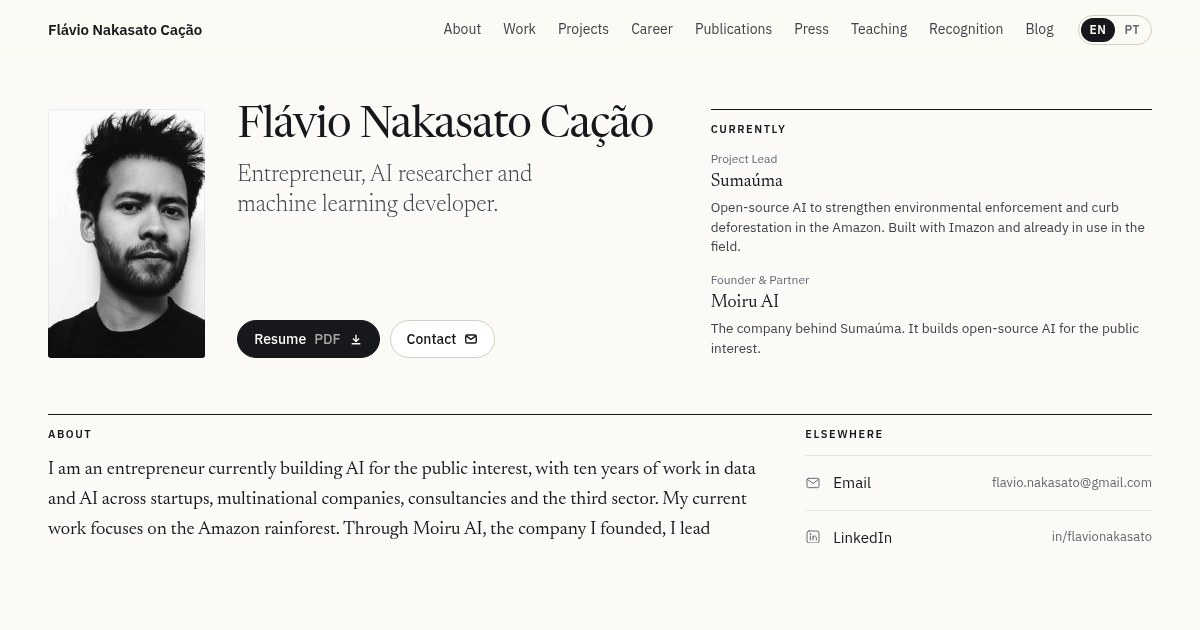
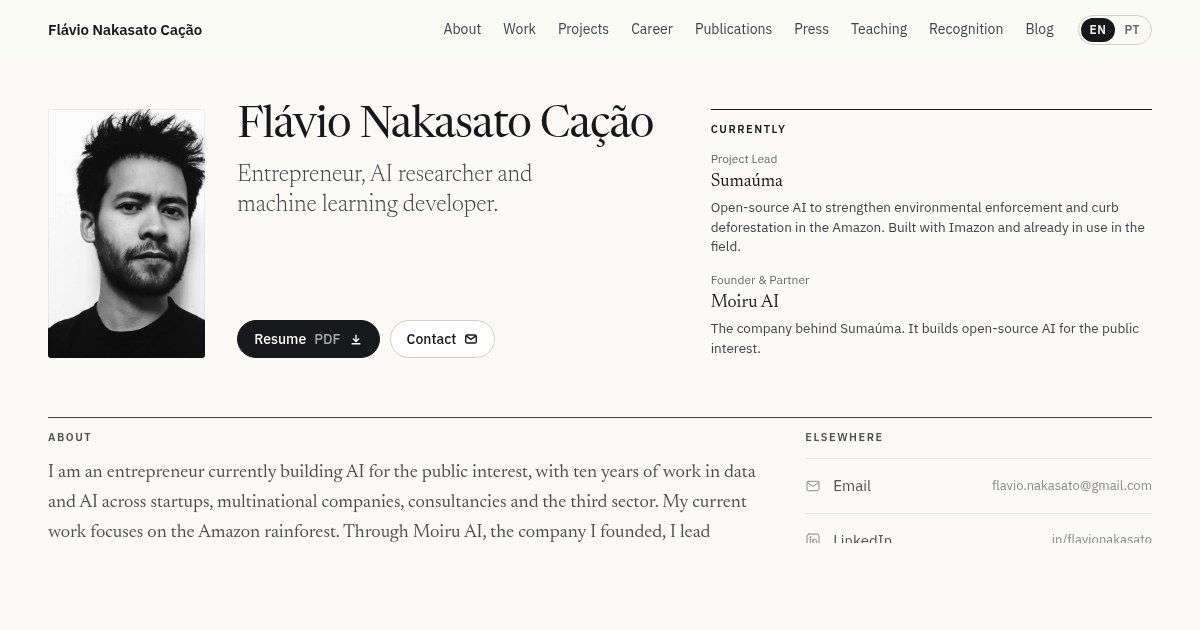
Mobile: remove a seção Currently
Claude-Session: https://claude.ai/code/session_01A1tMtJZEd8TSPHM1qtNwtA

diff --git a/index.html b/index.html
@@ -591,7 +591,7 @@ footer a:hover{color:var(--ink)}
   .links-svg path.live{stroke-dashoffset:0}
 }
 /* M3-START */
-body.m3{font-size:15px;overflow-x:hidden}body.m3 [hidden]{display:none!important}body.m3 .rv{opacity:1!important;transform:none!important;transition:none!important}body.m3 .totop,body.m3 .skip{display:none!important}body.m3 .shead .sub{display:none}body.m3 .shead{padding-top:10px;margin-bottom:14px}body.m3 .shead h2{font-size:24px}body.m3 .shead .aux{font-size:12.5px}body.m3 .met b{font-size:22px}body.m3 section.block{padding-top:34px}body.m3 .top{position:static;background:none}body.m3 .top .wrap{height:48px;gap:10px}body.m3 .brand{font-size:14.5px}body.m3 .lang{margin-left:auto}body.m3 footer{margin-top:28px}body.m3 footer .wrap{flex-direction:column;gap:6px}body.m3 .btn{padding:10px 14px;font-size:13.5px}body.m3 .row .t,body.m3 .xp .o b{font-size:17.5px}body.m3 .row{padding:10px 0}body.m3 .hero{padding-top:4px;padding-bottom:6px}body.m3 .hero-grid.g12{grid-template-columns:76px minmax(0,1fr);column-gap:14px;row-gap:10px}body.m3 .intro{display:contents}body.m3 .portrait{grid-column:1;grid-row:1/span 2;width:76px;height:76px;aspect-ratio:1;border-radius:50%;align-self:center}body.m3 h1.name{grid-column:2;grid-row:1;align-self:end;font-size:27px;margin:0}body.m3 .tagline{grid-column:2;grid-row:2;align-self:start;font-size:16.5px;margin:0;max-width:none}body.m3 .intro .actions{grid-column:1/-1;grid-row:3;display:grid;grid-template-columns:1fr 1fr;gap:8px;margin:0}body.m3 .intro .actions .btn{justify-content:center;padding:11px 8px}body.m3 .ilinks{grid-column:1/-1;grid-row:4;display:grid;grid-template-columns:repeat(5,1fr);gap:8px}body.m3 .ilinks a{display:grid;place-items:center;height:38px;border:1px solid var(--hair-2);border-radius:999px;background:var(--card);color:var(--ink-2)}body.m3 .ilinks svg{width:18px;height:18px}body.m3 .now{grid-column:1/-1;grid-row:5;display:block;margin:2px 0 0;padding-top:10px}body.m3 .now .lbl{margin-bottom:8px}body.m3 .now dl{display:grid;grid-template-columns:1fr 1fr;gap:12px}body.m3 .now dl>div{margin:0!important;grid-column:auto}body.m3 .now dd{font-size:18px}body.m3 .now dd small{display:none}body.m3 .m3about{margin-top:14px;border-top:1px solid var(--ink);padding-top:10px}body.m3 .m3about .bio{grid-column:auto}body.m3 .m3about .bio .lbl{margin-bottom:8px}body.m3 .m3about .bio p{font-size:17px;line-height:1.55;display:-webkit-box;-webkit-box-orient:vertical;-webkit-line-clamp:4;overflow:hidden;-webkit-mask-image:linear-gradient(#000 55%,transparent);mask-image:linear-gradient(#000 55%,transparent)}body.m3 .m3about.open .bio p{display:block;-webkit-line-clamp:unset;-webkit-mask-image:none;mask-image:none}body.m3 .m3more{all:unset;cursor:pointer;display:inline-block;margin-top:6px;font:500 13.5px/1 var(--sans);color:var(--ink);border-bottom:1px solid var(--ink);padding-bottom:2px}body.m3 #about{display:none}body.m3 .hello{font:600 11px/1 var(--sans);letter-spacing:.14em;text-transform:uppercase;margin:20px 0 8px;color:var(--muted)}body.m3 .tiles3{display:grid;grid-template-columns:1fr 1fr;gap:10px}body.m3 section.block.sheet{position:fixed;inset:0;z-index:55;margin:0;max-width:none;background:var(--paper);overflow-y:auto;overscroll-behavior:contain;transform:translateX(100%);visibility:hidden;padding:0 16px 56px}body.m3 body.rdy section.block.sheet{transition:transform .35s var(--ease),visibility 0s .35s}body.m3 section.block.sheet.open{transform:none;visibility:visible}body.m3 body.rdy section.block.sheet.open{transition:transform .35s var(--ease)}body.m3 .sbar{position:sticky;top:0;z-index:6;margin:0 -16px 14px;padding:10px 12px;display:flex;align-items:center;gap:12px;background:var(--paper);border-bottom:1px solid var(--hair)}body.m3 .sbar button{all:unset;cursor:pointer;width:36px;height:36px;border-radius:50%;border:1px solid var(--hair-2);display:grid;place-items:center;background:var(--card)}body.m3 .sbar svg{width:16px;height:16px;stroke:var(--ink);fill:none;stroke-width:1.8;stroke-linecap:round;stroke-linejoin:round}body.m3 .sbar b{font:400 23px/1 var(--serif);letter-spacing:-.01em}body.m3 .sheet .shead{border-top:0;padding-top:0}body.m3 .sheet .shead .hl h2{display:none}body.m3 .sheet .shead .hl{justify-content:flex-start}body.m3 .sheet .shead:not(:has(.aux)){display:none}body.m3 .tiles{display:grid;grid-template-columns:1fr 1fr;gap:10px}body.m3 .tile{all:unset;box-sizing:border-box;display:flex;flex-direction:column;background:var(--card);border:1px solid var(--hair);border-radius:8px;overflow:hidden;cursor:pointer;min-width:0}body.m3 .tile:focus-visible{outline:2px solid var(--accent);outline-offset:2px}body.m3 .tile.wide{grid-column:1/-1}body.m3 .timg{display:block;aspect-ratio:16/10;position:relative;background:var(--paper-2);overflow:hidden;flex:none}body.m3 .tile.wide .timg{aspect-ratio:16/8}body.m3 .timg img{position:absolute;inset:0;width:100%;height:100%;object-fit:cover;object-position:50% 0}body.m3 .tile.wide .timg img{object-position:50% 40%}body.m3 .timg .typo{position:absolute;inset:0;padding:6%}body.m3 .timg .typo b{font-size:17px}body.m3 .timg .typo span{font-size:9px;margin-top:6px}body.m3 .timg .typo i{display:none}body.m3 .tb{padding:10px 11px 12px;display:flex;flex-direction:column;gap:3px;min-width:0}body.m3 .tt{font:500 10px/1.2 var(--sans);letter-spacing:.1em;text-transform:uppercase;color:var(--c)}body.m3 .tb b{font:400 16.5px/1.2 var(--serif);letter-spacing:-.008em}body.m3 .tn{font:300 28px/1 var(--serif);letter-spacing:-.03em;margin-top:2px;font-variant-numeric:lining-nums}body.m3 .tn sup{font-size:.42em;vertical-align:.95em}body.m3 .tl{font-size:12px;line-height:1.35;color:var(--ink-2);display:-webkit-box;-webkit-line-clamp:2;-webkit-box-orient:vertical;overflow:hidden}body.m3 #prgrid{display:block}body.m3 #prgrid .c{flex-direction:row;display:flex;margin-bottom:10px;min-height:0;transform:none!important;box-shadow:none!important}body.m3 #prgrid .c .th{width:104px;flex:none;aspect-ratio:auto!important;border-bottom:0;border-right:1px solid var(--hair);height:auto}body.m3 #prgrid .th img{position:absolute;inset:0;height:100%}body.m3 #prgrid .credit{display:none}body.m3 #prgrid .bd{padding:10px 12px;display:block}body.m3 #prgrid .tg{margin-bottom:5px;font-size:10px}body.m3 #prgrid .ttl{font-size:16px!important;line-height:1.22;margin:0;display:-webkit-box;-webkit-line-clamp:3;-webkit-box-orient:vertical;overflow:hidden}body.m3 #prgrid .meta{display:none}body.m3 #prgrid .foot{padding-top:7px}body.m3 #prgrid .badge{font-size:9.5px;padding:4px 7px}body.m3 #work .filters,body.m3 #work .flow,body.m3 #work .mflow,body.m3 #work .skip{display:none!important}body.m3 .vmap{position:relative}body.m3 .vh{position:sticky;top:59px;z-index:5;background:var(--paper);display:flex;padding:6px 0 8px;margin-left:34px;border-bottom:1px solid var(--hair)}body.m3 .vh button{all:unset;cursor:pointer;box-sizing:border-box;text-align:center;font:600 9.5px/1.1 var(--sans);letter-spacing:.06em;text-transform:uppercase;color:var(--c);padding:6px 0;border-bottom:3px solid var(--c);overflow:hidden}body.m3 .vh button.off{opacity:.35}body.m3 .vc{position:relative}body.m3 .vy{position:absolute;left:0;right:0;border-top:1px solid var(--hair);font:500 10.5px/1 var(--sans);color:var(--muted);padding:5px 0 0;font-variant-numeric:tabular-nums}body.m3 .vnow{position:absolute;left:30px;right:0;border-top:1px dashed var(--impact);opacity:.7}body.m3 .vb{all:unset;box-sizing:border-box;position:absolute;cursor:pointer;background:color-mix(in srgb,var(--c) 15%,white);border-left:3px solid var(--c);border-radius:3px;overflow:hidden;padding:4px 2px 4px 3px;font:500 10.5px/1.15 var(--sans);color:var(--ink-2)}body.m3 .vb span{display:block;writing-mode:vertical-rl;transform:rotate(180deg);white-space:nowrap;overflow:hidden;text-overflow:ellipsis;max-height:100%}body.m3 .vb.sm span{display:none}body.m3 .vb.pend{background:repeating-linear-gradient(-45deg,color-mix(in srgb,var(--c) 22%,white) 0 4px,color-mix(in srgb,var(--c) 8%,white) 4px 8px)}body.m3 .vp{all:unset;box-sizing:border-box;position:absolute;width:16px;height:16px;cursor:pointer;display:grid;place-items:center}body.m3 .vp i{width:10px;height:10px;border-radius:50%;background:var(--paper);box-shadow:inset 0 0 0 2.5px var(--c)}body.m3 .vp.paper i{border-radius:2px;transform:rotate(45deg) scale(.85)}body.m3 .vp.honor i{background:var(--c)}body.m3 .vp.writing i{border-radius:2px}body.m3 .vb:focus-visible,body.m3 .vp:focus-visible{outline:2px solid var(--accent);outline-offset:1px}body.m3 .vmap .dim{opacity:.12;pointer-events:none}body.m3 .vleg{font-size:12px;color:var(--muted);margin:14px 0 0}body.m3 #plist{border-top:0}body.m3 #plist .pr{border:1px solid var(--hair);border-radius:6px;overflow:hidden;margin-bottom:10px;background:var(--card)}body.m3 #plist .pr .hd{display:grid;grid-template-columns:108px minmax(0,1fr);gap:0;padding:0;align-items:stretch}body.m3 #plist .pr .hd::after{display:none}body.m3 #plist .pr .th{grid-row:1/span 2;width:auto;justify-self:stretch;aspect-ratio:auto;border:0;border-right:1px solid var(--hair);border-radius:0;position:relative;min-height:112px}body.m3 #plist .pr .th img{position:absolute;inset:0;width:100%;height:100%;object-fit:contain;padding:6px;background:#fff}body.m3 #plist .pr .th .typo{position:absolute;inset:0}body.m3 #plist .pr .hd>div:nth-child(2){padding:10px 12px 0}body.m3 #plist .pr .t{font-size:16px;line-height:1.22;display:-webkit-box;-webkit-line-clamp:3;-webkit-box-orient:vertical;overflow:hidden}body.m3 #plist .pr .ven{font-size:12px;margin-top:5px}body.m3 #plist .pr .ven small{display:none}body.m3 #plist .pr .au{display:none}body.m3 #plist .pr .aside{grid-column:2;flex-direction:row;align-items:center;gap:10px;margin:0;padding:8px 12px 10px;text-align:left}body.m3 #plist .pr .badge{font-size:9.5px;padding:4px 7px}body.m3 #plist .pr .det{display:none!important}body.m3 #pubmodal .pdesc{font-size:16px;line-height:1.6}body.m3 #pubmodal .plinks{margin:0 0 22px}body.m3 #pubmodal .abh{margin:0 0 8px}body.m3 .tl3{all:unset;box-sizing:border-box;cursor:pointer;display:flex;flex-direction:column;justify-content:space-between;min-height:124px;padding:14px;border-radius:14px;background:var(--card);border:1px solid var(--hair);position:relative}body.m3 .tl3 .ico{position:absolute;right:12px;top:12px;width:32px;height:32px;border-radius:50%;background:var(--t);color:var(--c);display:grid;place-items:center}body.m3 .tl3 .ic{width:17px;height:17px;fill:none;stroke:currentColor;stroke-width:1.7;stroke-linecap:round;stroke-linejoin:round}body.m3 .tl3 .big{font:300 44px/1 var(--serif);letter-spacing:-.03em;color:var(--ink);font-variant-numeric:lining-nums}body.m3 .tl3 .nm,body.m3 .tl3 .cp{display:block}body.m3 .tl3 .nm{font:500 14px/1.2 var(--sans);color:var(--ink);margin-top:10px}body.m3 .tl3 .cp{font-size:11.5px;color:var(--muted);margin-top:2px;line-height:1.3}body.m3 .tl3.wide{grid-column:1/-1;min-height:92px;flex-direction:row;align-items:center;gap:12px}body.m3 .tl3.wide .big{margin-right:auto}body.m3 .tl3.wide .nm{margin-top:0}body.m3 .tl3.wide>span:nth-child(3){text-align:right}body.m3 .tl3.wide .ico{position:static;order:3;flex:none}body.m3 .tl3:active{transform:scale(.98)}body.m3 .panel{max-height:calc(100vh - 40px);max-height:calc(100dvh - 40px)}body.m3 .pfig{margin:0 0 18px;aspect-ratio:16/9;border-radius:6px;overflow:hidden;border:1px solid var(--hair);background:#fff;position:relative}body.m3 .pfig .th{margin:0;width:100%;height:100%;border:0;aspect-ratio:auto;position:relative}body.m3 .pfig img{display:block;width:100%;height:100%;object-fit:cover}body.m3 .pfig .th.top img{object-position:50% 0}body.m3 .pfig .typo{height:100%;--c:var(--c)}
+body.m3{font-size:15px;overflow-x:hidden}body.m3 [hidden]{display:none!important}body.m3 .rv{opacity:1!important;transform:none!important;transition:none!important}body.m3 .totop,body.m3 .skip{display:none!important}body.m3 .shead .sub{display:none}body.m3 .shead{padding-top:10px;margin-bottom:14px}body.m3 .shead h2{font-size:24px}body.m3 .shead .aux{font-size:12.5px}body.m3 .met b{font-size:22px}body.m3 section.block{padding-top:34px}body.m3 .top{position:static;background:none}body.m3 .top .wrap{height:48px;gap:10px}body.m3 .brand{font-size:14.5px}body.m3 .lang{margin-left:auto}body.m3 footer{margin-top:28px}body.m3 footer .wrap{flex-direction:column;gap:6px}body.m3 .btn{padding:10px 14px;font-size:13.5px}body.m3 .row .t,body.m3 .xp .o b{font-size:17.5px}body.m3 .row{padding:10px 0}body.m3 .hero{padding-top:4px;padding-bottom:6px}body.m3 .hero-grid.g12{grid-template-columns:76px minmax(0,1fr);column-gap:14px;row-gap:10px}body.m3 .intro{display:contents}body.m3 .portrait{grid-column:1;grid-row:1/span 2;width:76px;height:76px;aspect-ratio:1;border-radius:50%;align-self:center}body.m3 h1.name{grid-column:2;grid-row:1;align-self:end;font-size:27px;margin:0}body.m3 .tagline{grid-column:2;grid-row:2;align-self:start;font-size:16.5px;margin:0;max-width:none}body.m3 .intro .actions{grid-column:1/-1;grid-row:3;display:grid;grid-template-columns:1fr 1fr;gap:8px;margin:0}body.m3 .intro .actions .btn{justify-content:center;padding:11px 8px}body.m3 .ilinks{grid-column:1/-1;grid-row:4;display:grid;grid-template-columns:repeat(5,1fr);gap:8px}body.m3 .ilinks a{display:grid;place-items:center;height:38px;border:1px solid var(--hair-2);border-radius:999px;background:var(--card);color:var(--ink-2)}body.m3 .ilinks svg{width:18px;height:18px}body.m3 .now{display:none}body.m3 .now .lbl{margin-bottom:8px}body.m3 .now dl{display:grid;grid-template-columns:1fr 1fr;gap:12px}body.m3 .now dl>div{margin:0!important;grid-column:auto}body.m3 .now dd{font-size:18px}body.m3 .now dd small{display:none}body.m3 .m3about{margin-top:14px;border-top:1px solid var(--ink);padding-top:10px}body.m3 .m3about .bio{grid-column:auto}body.m3 .m3about .bio .lbl{margin-bottom:8px}body.m3 .m3about .bio p{font-size:17px;line-height:1.55;display:-webkit-box;-webkit-box-orient:vertical;-webkit-line-clamp:4;overflow:hidden;-webkit-mask-image:linear-gradient(#000 55%,transparent);mask-image:linear-gradient(#000 55%,transparent)}body.m3 .m3about.open .bio p{display:block;-webkit-line-clamp:unset;-webkit-mask-image:none;mask-image:none}body.m3 .m3more{all:unset;cursor:pointer;display:inline-block;margin-top:6px;font:500 13.5px/1 var(--sans);color:var(--ink);border-bottom:1px solid var(--ink);padding-bottom:2px}body.m3 #about{display:none}body.m3 .hello{font:600 11px/1 var(--sans);letter-spacing:.14em;text-transform:uppercase;margin:20px 0 8px;color:var(--muted)}body.m3 .tiles3{display:grid;grid-template-columns:1fr 1fr;gap:10px}body.m3 section.block.sheet{position:fixed;inset:0;z-index:55;margin:0;max-width:none;background:var(--paper);overflow-y:auto;overscroll-behavior:contain;transform:translateX(100%);visibility:hidden;padding:0 16px 56px}body.m3 body.rdy section.block.sheet{transition:transform .35s var(--ease),visibility 0s .35s}body.m3 section.block.sheet.open{transform:none;visibility:visible}body.m3 body.rdy section.block.sheet.open{transition:transform .35s var(--ease)}body.m3 .sbar{position:sticky;top:0;z-index:6;margin:0 -16px 14px;padding:10px 12px;display:flex;align-items:center;gap:12px;background:var(--paper);border-bottom:1px solid var(--hair)}body.m3 .sbar button{all:unset;cursor:pointer;width:36px;height:36px;border-radius:50%;border:1px solid var(--hair-2);display:grid;place-items:center;background:var(--card)}body.m3 .sbar svg{width:16px;height:16px;stroke:var(--ink);fill:none;stroke-width:1.8;stroke-linecap:round;stroke-linejoin:round}body.m3 .sbar b{font:400 23px/1 var(--serif);letter-spacing:-.01em}body.m3 .sheet .shead{border-top:0;padding-top:0}body.m3 .sheet .shead .hl h2{display:none}body.m3 .sheet .shead .hl{justify-content:flex-start}body.m3 .sheet .shead:not(:has(.aux)){display:none}body.m3 .tiles{display:grid;grid-template-columns:1fr 1fr;gap:10px}body.m3 .tile{all:unset;box-sizing:border-box;display:flex;flex-direction:column;background:var(--card);border:1px solid var(--hair);border-radius:8px;overflow:hidden;cursor:pointer;min-width:0}body.m3 .tile:focus-visible{outline:2px solid var(--accent);outline-offset:2px}body.m3 .tile.wide{grid-column:1/-1}body.m3 .timg{display:block;aspect-ratio:16/10;position:relative;background:var(--paper-2);overflow:hidden;flex:none}body.m3 .tile.wide .timg{aspect-ratio:16/8}body.m3 .timg img{position:absolute;inset:0;width:100%;height:100%;object-fit:cover;object-position:50% 0}body.m3 .tile.wide .timg img{object-position:50% 40%}body.m3 .timg .typo{position:absolute;inset:0;padding:6%}body.m3 .timg .typo b{font-size:17px}body.m3 .timg .typo span{font-size:9px;margin-top:6px}body.m3 .timg .typo i{display:none}body.m3 .tb{padding:10px 11px 12px;display:flex;flex-direction:column;gap:3px;min-width:0}body.m3 .tt{font:500 10px/1.2 var(--sans);letter-spacing:.1em;text-transform:uppercase;color:var(--c)}body.m3 .tb b{font:400 16.5px/1.2 var(--serif);letter-spacing:-.008em}body.m3 .tn{font:300 28px/1 var(--serif);letter-spacing:-.03em;margin-top:2px;font-variant-numeric:lining-nums}body.m3 .tn sup{font-size:.42em;vertical-align:.95em}body.m3 .tl{font-size:12px;line-height:1.35;color:var(--ink-2);display:-webkit-box;-webkit-line-clamp:2;-webkit-box-orient:vertical;overflow:hidden}body.m3 #prgrid{display:block}body.m3 #prgrid .c{flex-direction:row;display:flex;margin-bottom:10px;min-height:0;transform:none!important;box-shadow:none!important}body.m3 #prgrid .c .th{width:104px;flex:none;aspect-ratio:auto!important;border-bottom:0;border-right:1px solid var(--hair);height:auto}body.m3 #prgrid .th img{position:absolute;inset:0;height:100%}body.m3 #prgrid .credit{display:none}body.m3 #prgrid .bd{padding:10px 12px;display:block}body.m3 #prgrid .tg{margin-bottom:5px;font-size:10px}body.m3 #prgrid .ttl{font-size:16px!important;line-height:1.22;margin:0;display:-webkit-box;-webkit-line-clamp:3;-webkit-box-orient:vertical;overflow:hidden}body.m3 #prgrid .meta{display:none}body.m3 #prgrid .foot{padding-top:7px}body.m3 #prgrid .badge{font-size:9.5px;padding:4px 7px}body.m3 #work .filters,body.m3 #work .flow,body.m3 #work .mflow,body.m3 #work .skip{display:none!important}body.m3 .vmap{position:relative}body.m3 .vh{position:sticky;top:59px;z-index:5;background:var(--paper);display:flex;padding:6px 0 8px;margin-left:34px;border-bottom:1px solid var(--hair)}body.m3 .vh button{all:unset;cursor:pointer;box-sizing:border-box;text-align:center;font:600 9.5px/1.1 var(--sans);letter-spacing:.06em;text-transform:uppercase;color:var(--c);padding:6px 0;border-bottom:3px solid var(--c);overflow:hidden}body.m3 .vh button.off{opacity:.35}body.m3 .vc{position:relative}body.m3 .vy{position:absolute;left:0;right:0;border-top:1px solid var(--hair);font:500 10.5px/1 var(--sans);color:var(--muted);padding:5px 0 0;font-variant-numeric:tabular-nums}body.m3 .vnow{position:absolute;left:30px;right:0;border-top:1px dashed var(--impact);opacity:.7}body.m3 .vb{all:unset;box-sizing:border-box;position:absolute;cursor:pointer;background:color-mix(in srgb,var(--c) 15%,white);border-left:3px solid var(--c);border-radius:3px;overflow:hidden;padding:4px 2px 4px 3px;font:500 10.5px/1.15 var(--sans);color:var(--ink-2)}body.m3 .vb span{display:block;writing-mode:vertical-rl;transform:rotate(180deg);white-space:nowrap;overflow:hidden;text-overflow:ellipsis;max-height:100%}body.m3 .vb.sm span{display:none}body.m3 .vb.pend{background:repeating-linear-gradient(-45deg,color-mix(in srgb,var(--c) 22%,white) 0 4px,color-mix(in srgb,var(--c) 8%,white) 4px 8px)}body.m3 .vp{all:unset;box-sizing:border-box;position:absolute;width:16px;height:16px;cursor:pointer;display:grid;place-items:center}body.m3 .vp i{width:10px;height:10px;border-radius:50%;background:var(--paper);box-shadow:inset 0 0 0 2.5px var(--c)}body.m3 .vp.paper i{border-radius:2px;transform:rotate(45deg) scale(.85)}body.m3 .vp.honor i{background:var(--c)}body.m3 .vp.writing i{border-radius:2px}body.m3 .vb:focus-visible,body.m3 .vp:focus-visible{outline:2px solid var(--accent);outline-offset:1px}body.m3 .vmap .dim{opacity:.12;pointer-events:none}body.m3 .vleg{font-size:12px;color:var(--muted);margin:14px 0 0}body.m3 #plist{border-top:0}body.m3 #plist .pr{border:1px solid var(--hair);border-radius:6px;overflow:hidden;margin-bottom:10px;background:var(--card)}body.m3 #plist .pr .hd{display:grid;grid-template-columns:108px minmax(0,1fr);gap:0;padding:0;align-items:stretch}body.m3 #plist .pr .hd::after{display:none}body.m3 #plist .pr .th{grid-row:1/span 2;width:auto;justify-self:stretch;aspect-ratio:auto;border:0;border-right:1px solid var(--hair);border-radius:0;position:relative;min-height:112px}body.m3 #plist .pr .th img{position:absolute;inset:0;width:100%;height:100%;object-fit:contain;padding:6px;background:#fff}body.m3 #plist .pr .th .typo{position:absolute;inset:0}body.m3 #plist .pr .hd>div:nth-child(2){padding:10px 12px 0}body.m3 #plist .pr .t{font-size:16px;line-height:1.22;display:-webkit-box;-webkit-line-clamp:3;-webkit-box-orient:vertical;overflow:hidden}body.m3 #plist .pr .ven{font-size:12px;margin-top:5px}body.m3 #plist .pr .ven small{display:none}body.m3 #plist .pr .au{display:none}body.m3 #plist .pr .aside{grid-column:2;flex-direction:row;align-items:center;gap:10px;margin:0;padding:8px 12px 10px;text-align:left}body.m3 #plist .pr .badge{font-size:9.5px;padding:4px 7px}body.m3 #plist .pr .det{display:none!important}body.m3 #pubmodal .pdesc{font-size:16px;line-height:1.6}body.m3 #pubmodal .plinks{margin:0 0 22px}body.m3 #pubmodal .abh{margin:0 0 8px}body.m3 .tl3{all:unset;box-sizing:border-box;cursor:pointer;display:flex;flex-direction:column;justify-content:space-between;min-height:124px;padding:14px;border-radius:14px;background:var(--card);border:1px solid var(--hair);position:relative}body.m3 .tl3 .ico{position:absolute;right:12px;top:12px;width:32px;height:32px;border-radius:50%;background:var(--t);color:var(--c);display:grid;place-items:center}body.m3 .tl3 .ic{width:17px;height:17px;fill:none;stroke:currentColor;stroke-width:1.7;stroke-linecap:round;stroke-linejoin:round}body.m3 .tl3 .big{font:300 44px/1 var(--serif);letter-spacing:-.03em;color:var(--ink);font-variant-numeric:lining-nums}body.m3 .tl3 .nm,body.m3 .tl3 .cp{display:block}body.m3 .tl3 .nm{font:500 14px/1.2 var(--sans);color:var(--ink);margin-top:10px}body.m3 .tl3 .cp{font-size:11.5px;color:var(--muted);margin-top:2px;line-height:1.3}body.m3 .tl3.wide{grid-column:1/-1;min-height:92px;flex-direction:row;align-items:center;gap:12px}body.m3 .tl3.wide .big{margin-right:auto}body.m3 .tl3.wide .nm{margin-top:0}body.m3 .tl3.wide>span:nth-child(3){text-align:right}body.m3 .tl3.wide .ico{position:static;order:3;flex:none}body.m3 .tl3:active{transform:scale(.98)}body.m3 .panel{max-height:calc(100vh - 40px);max-height:calc(100dvh - 40px)}body.m3 .pfig{margin:0 0 18px;aspect-ratio:16/9;border-radius:6px;overflow:hidden;border:1px solid var(--hair);background:#fff;position:relative}body.m3 .pfig .th{margin:0;width:100%;height:100%;border:0;aspect-ratio:auto;position:relative}body.m3 .pfig img{display:block;width:100%;height:100%;object-fit:cover}body.m3 .pfig .th.top img{object-position:50% 0}body.m3 .pfig .typo{height:100%;--c:var(--c)}
 
 /* M3-END */
 </style>
